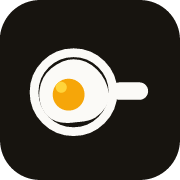
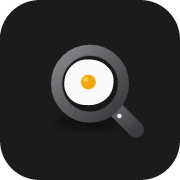
CI 아이콘: 돋보기형 팬 + 후라이 계란(다운로드 시안대로) 재현
- 벡터로 재작성: 금속 그레이 림(그라데이션)·어두운 렌즈·흰 계란·주황 노른자,
  우하단 손잡이 + 리벳 점, 소프트 섀도. gen-icons.mjs mark(tone) 로 통일
  (dark=아이콘/파비콘, light=스플래시·적응형 전경 계란 외곽선, mono=실루엣)
- favicon.svg / logo-mark.svg 도 스크립트가 생성
- 웹 헤더 심볼: 소형에서 뭉개지지 않게 평면 버전(그레이 링+계란)
- app.json adaptiveIcon 배경 #FFF1E8 → #1B1B1B (어두운 사각형 톤 통일)

diff --git a/apps/web/src/Layout.tsx b/apps/web/src/Layout.tsx
@@ -15,30 +15,33 @@ export default function Layout() {
           <Link to="/" className="group flex items-center gap-2">
             <svg
               viewBox="0 0 128 128"
-              className="h-7 w-7 text-ink"
+              className="h-7 w-7"
               role="img"
               aria-label="FoodPlay"
             >
-              <rect x="90" y="57" width="34" height="16" rx="8" fill="currentColor" />
+              <path
+                d="M82 80 L102 100"
+                stroke="#8a8a8e"
+                strokeWidth="13"
+                strokeLinecap="round"
+              />
+              <circle
+                cx="58"
+                cy="60"
+                r="30"
+                fill="none"
+                stroke="#8a8a8e"
+                strokeWidth="11"
+              />
               <circle
                 cx="56"
-                cy="66"
-                r="36"
-                fill="none"
-                stroke="currentColor"
-                strokeWidth="8"
+                cy="58"
+                r="19"
+                fill="#fbfbfb"
+                stroke="#cfcfcf"
+                strokeWidth="2"
               />
-              <g transform="translate(56 66) scale(1.12) translate(-56 -66)">
-                <path
-                  d="M56 41C64 41 69 44 74 49 79 54 82 61 83 67 84 74 79 81 73 85 67 89 61 88 55 89 46 90 40 88 36 84 31 79 29 71 30 65 31 57 34 52 39 48 44 44 49 41 56 41Z"
-                  fill="#fbfaf7"
-                  stroke="currentColor"
-                  strokeWidth="3.6"
-                  strokeLinejoin="round"
-                />
-                <circle cx="52" cy="68" r="13" fill="#f6a609" />
-                <circle cx="46" cy="62" r="4.5" fill="#ffd43b" />
-              </g>
+              <circle cx="56" cy="57" r="6.5" fill="#f2a70c" />
             </svg>
             <span className="text-[15px] font-semibold tracking-tight">
               FoodPlay
